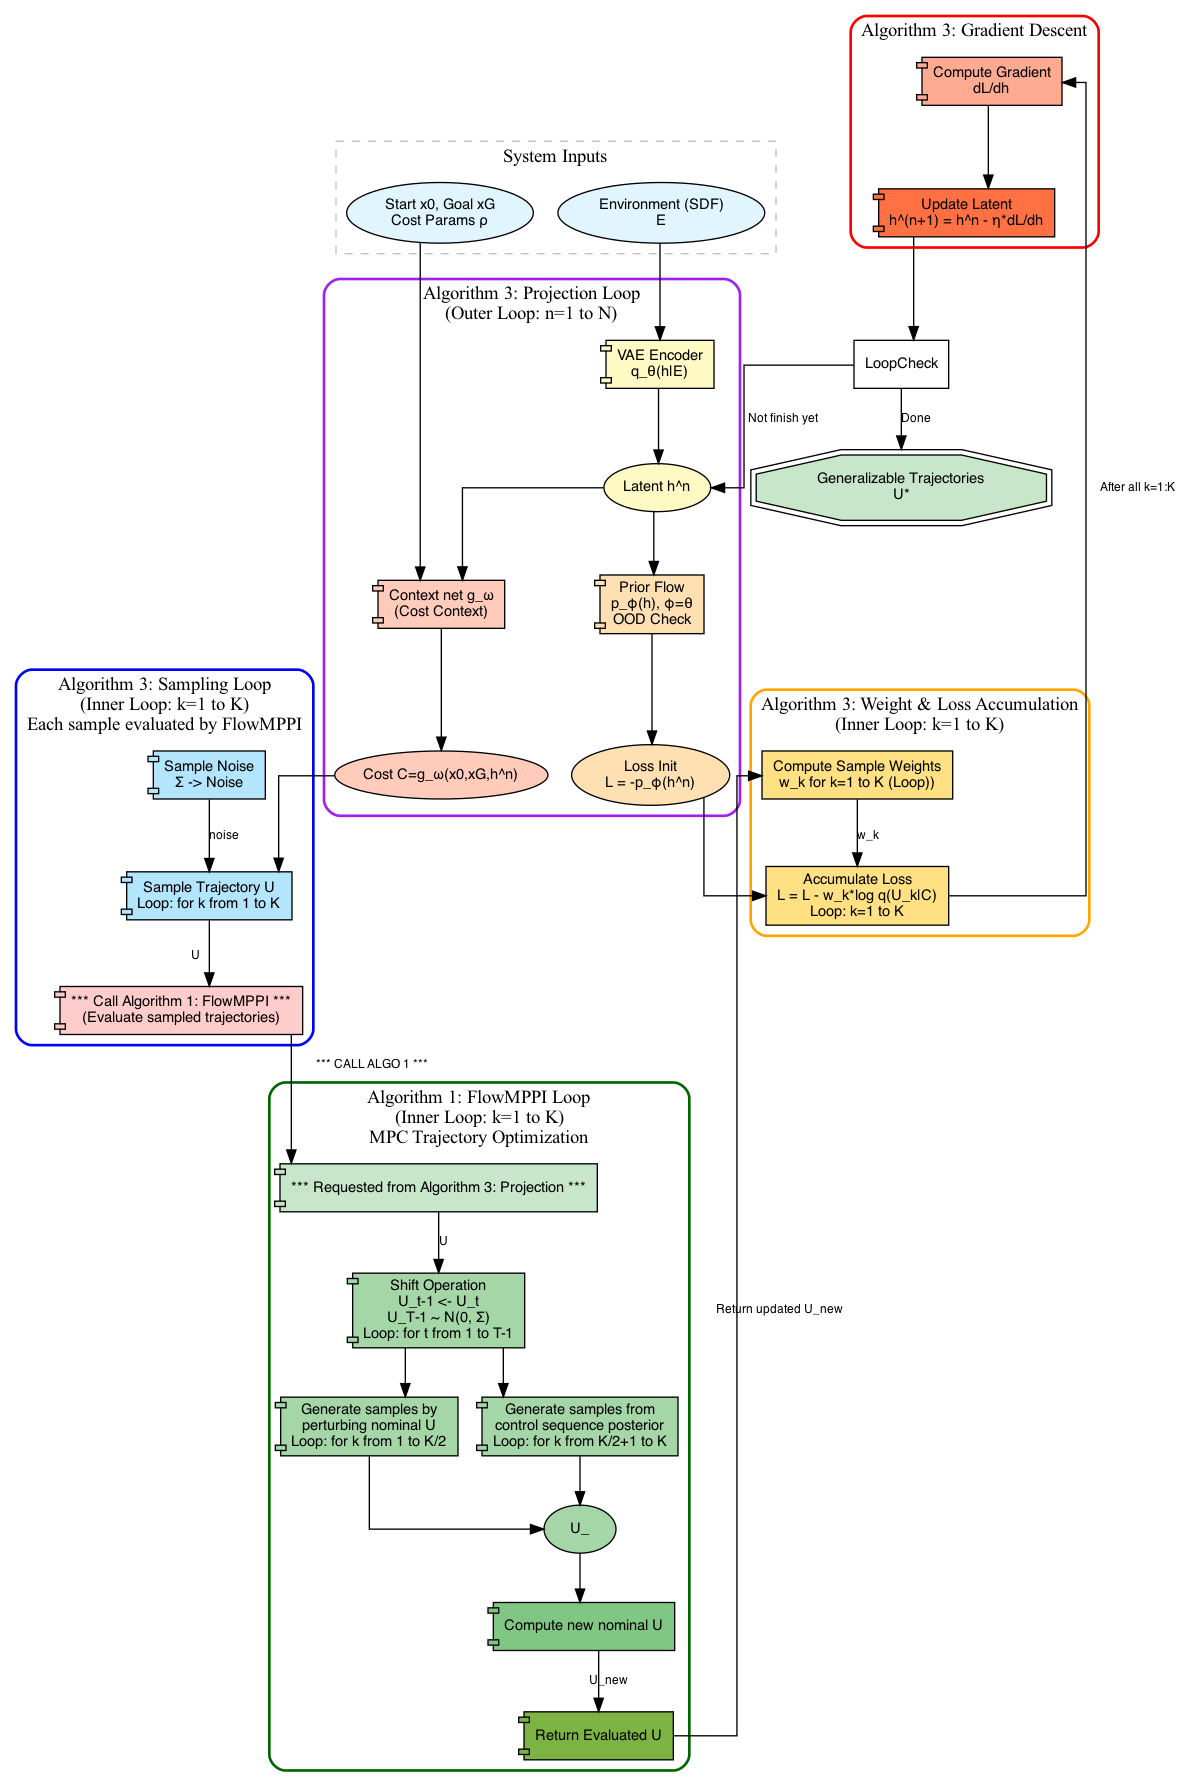
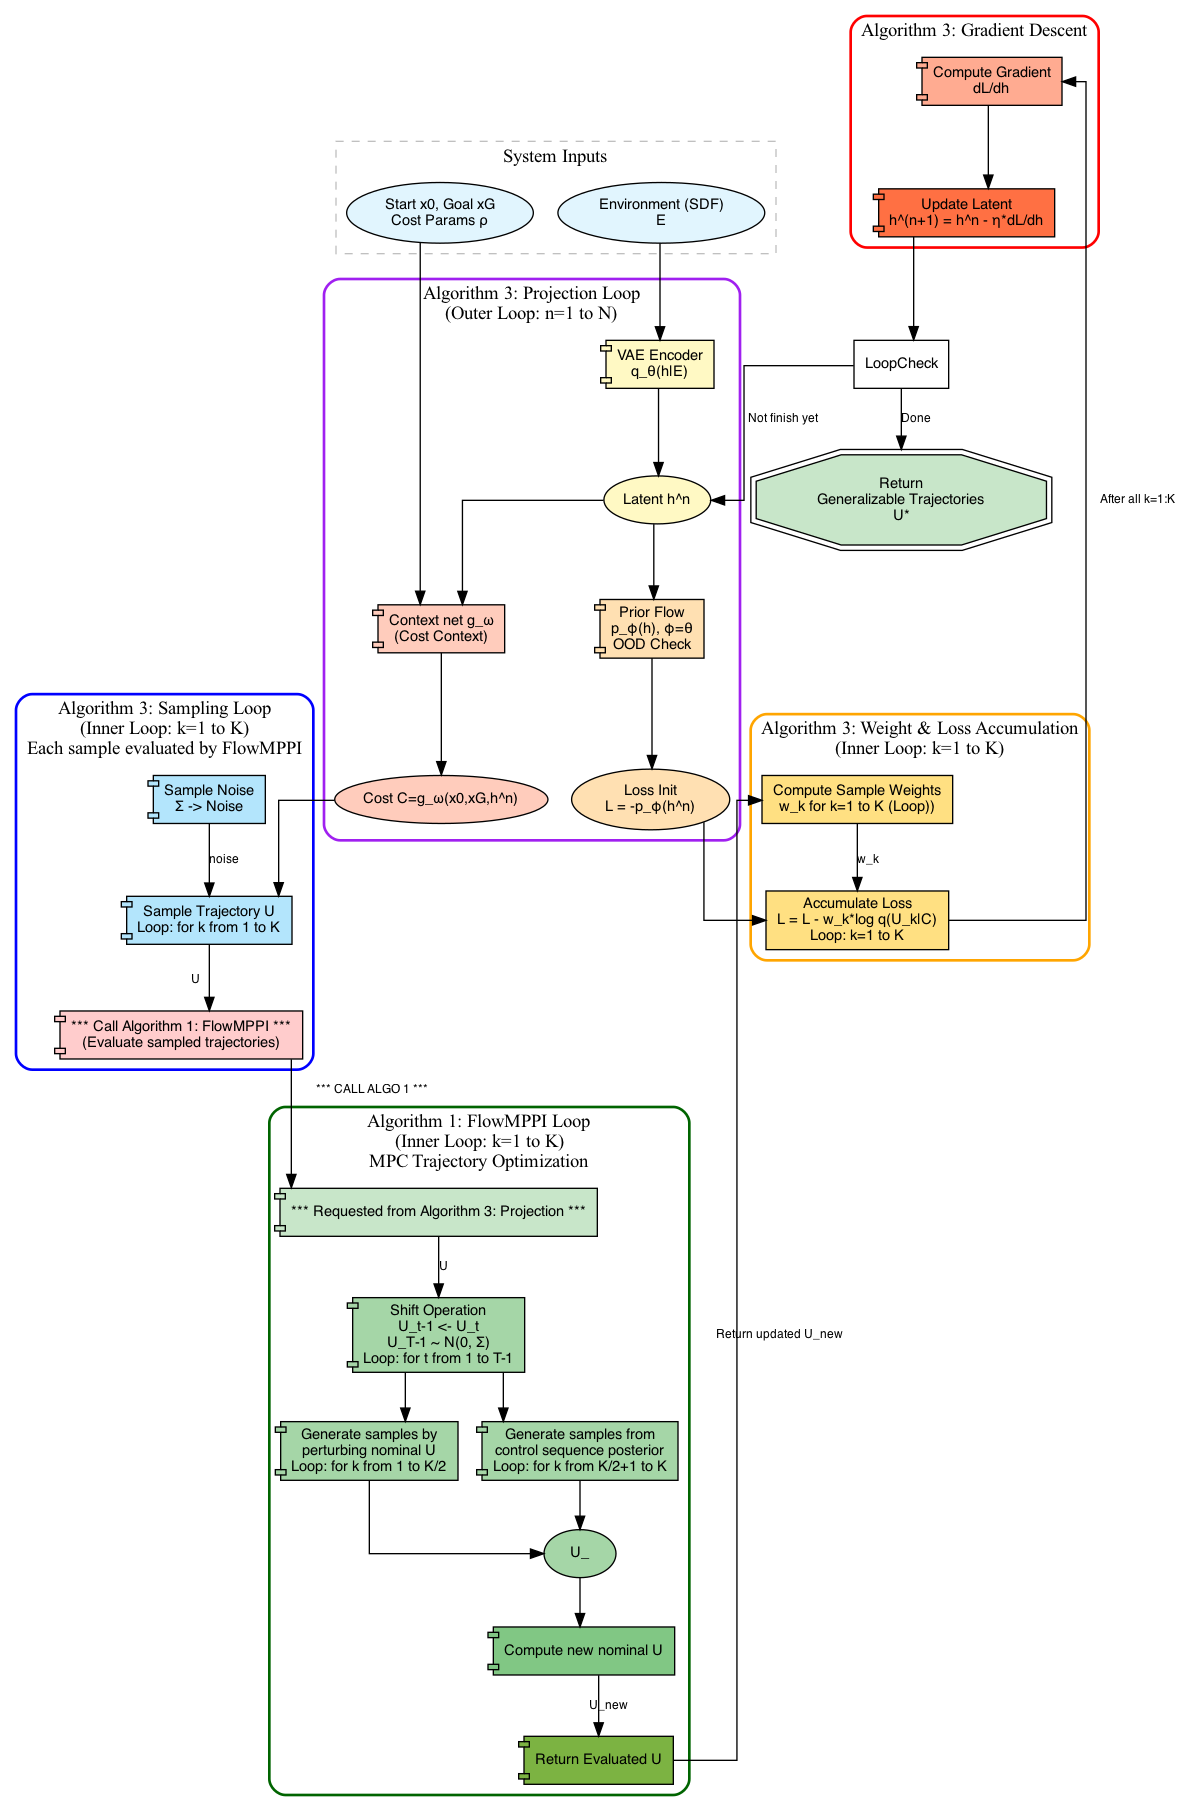
cmt-20260120-6

diff --git a/journal/TRO/24/learning_a_generalizable_trajectory_sampling_distrib_4_mpc/block_diagrams/flow_mpc_diagram_gen.py b/journal/TRO/24/learning_a_generalizable_trajectory_sampling_distrib_4_mpc/block_diagrams/flow_mpc_diagram_gen.py
@@ -123,7 +123,7 @@ def create_mpc_block_diagram():
     c.node('LoopCheck', 'Finished or Not', shape='diamond', fillcolor='#ffccbc')
 
     # --- FINAL OUTPUT ---
-    dot.node('OptimalControl', 'Generalizable Trajectories\nU*', shape='doubleoctagon', 
+    dot.node('OptimalControl', 'Return\nGeneralizable Trajectories\nU*', shape='doubleoctagon', 
             fillcolor='#c8e6c9')
 
     # === MAIN CONNECTING EDGES ===
@@ -158,6 +158,7 @@ def create_mpc_block_diagram():
     # 8. Loop Back
     dot.edge('LoopCheck', 'h_init', label='Not finish yet')
     dot.edge('LoopCheck', 'OptimalControl', label='Done')
+#     dot.edge('Algo1_return', 'OptimalControl')
     
     # Render
     dot.render('flow_mpc_diagram', view=False, cleanup=True)
